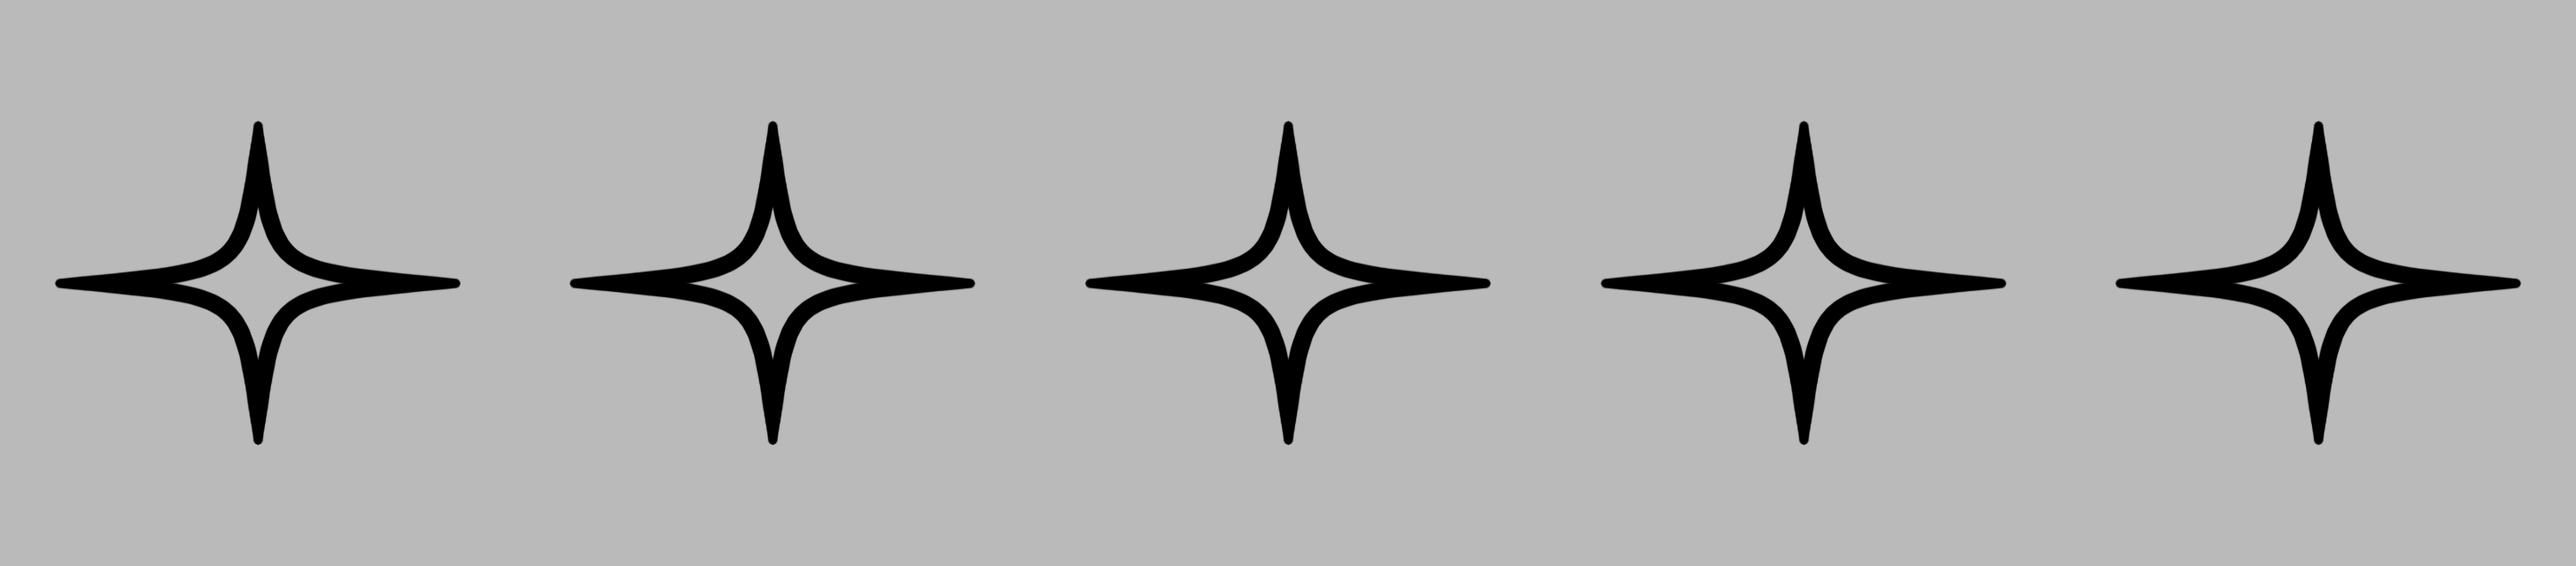
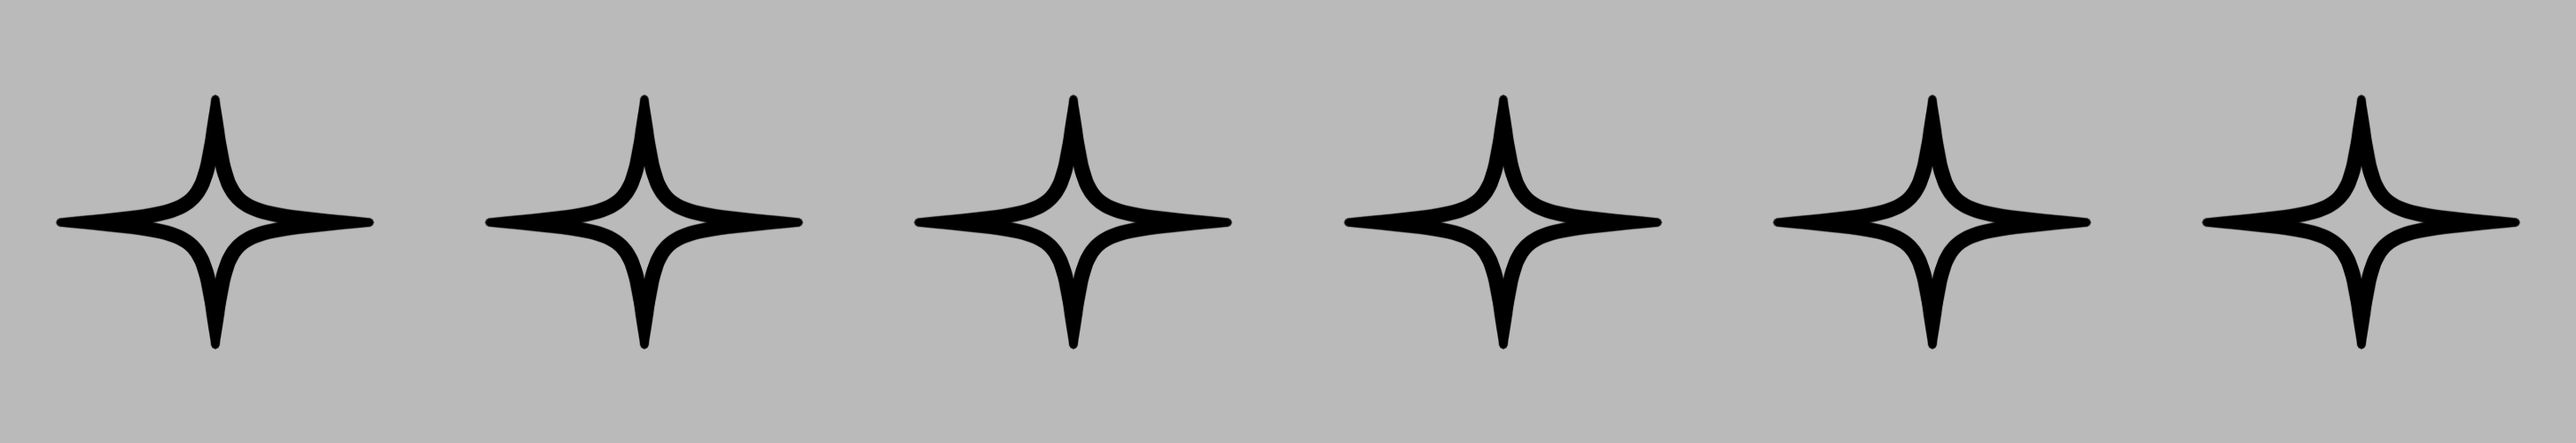
update portofolio

Changed region(s): [[0.0312, 0.2092, 0.9668, 0.7769]]

diff --git a/app/portfolio.css b/app/portfolio.css
@@ -709,7 +709,10 @@ a.chan:hover .chan__v { color: var(--ink); }
    ada untuk memberi kisi HP di bawah sesuatu untuk dipegang. */
 .about-head, .edu-list { display: contents; }
 
-.hero-cta { display: flex; flex-wrap: wrap; gap: 12px; }
+/* Sepasang tombol berdampingan. Dipakai hero ("Lihat Proyek" + "Unduh CV") dan
+   formulir kontak ("Kirim Pesan" + "Salin Email"); keduanya punya persoalan HP
+   yang sama persis, jadi satu aturan saja — lihat blok ≤640px di bawah. */
+.hero-cta, .form-cta { display: flex; flex-wrap: wrap; gap: 12px; }
 
 @media (max-width: 640px) {
   /* ── Layar 1 ── satu layar penuh, isinya ditengahkan tegak.
@@ -727,15 +730,20 @@ a.chan:hover .chan__v { color: var(--ink); }
   .band--hero .lanyard-slot { display: none; }
 
   /* Dua tombol berdampingan, sama lebar. grid, bukan flex-wrap: dengan wrap
-     "Unduh CV" turun sendiri ke baris kedua dan lebarnya jadi tidak sama. */
-  .hero-cta { display: grid; grid-template-columns: 1fr 1fr; gap: 10px; }
-  .hero-cta > * { width: 100%; }
+     "Unduh CV" turun sendiri ke baris kedua dan lebarnya jadi tidak sama.
+     Hal yang sama menimpa "Kirim Pesan" + "Salin Email" di formulir kontak —
+     pada ukuran desktopnya keduanya butuh 358px sementara .shell cuma
+     menyisakan 342px — jadi .form-cta ikut aturan yang sama. */
+  .hero-cta, .form-cta { display: grid; grid-template-columns: 1fr 1fr; gap: 10px; }
+  .hero-cta > *, .form-cta > * { width: 100%; }
   /* Kolomnya 166px dan padding 32px memakan 64px di antaranya — labelnya patah
      jadi "VIEW / PROJECTS". Dikecilkan sampai keduanya muat satu baris.
      Pasangannya ada di page.tsx: FlowButton memakai utility Tailwind (px-8,
      text-[14px]) yang selalu menang atas berkas ini, jadi ukuran HP-nya
-     dioper sebagai varian max-[640px] di sana. */
-  .hero-cta .btn { padding-inline: 14px; font-size: 12px; letter-spacing: 1px; }
+     dioper sebagai varian max-[640px] di sana. OriginButton di formulir kontak
+     tidak begitu — rupanya murni dari .btn — jadi baris ini cukup untuknya.
+     min-height 48px sengaja tidak ikut turun: itu sasaran sentuh, bukan hiasan. */
+  .hero-cta .btn, .form-cta .btn { padding-inline: 14px; font-size: 12px; letter-spacing: 1px; }
 
   /* Kalimat pembuka dikecilkan, dan cuma yang di hero — .lead juga dipakai
      paragraf About, dan di sana panjangnya bukan masalah. Di sini iya:
@@ -936,6 +944,31 @@ a.chan:hover .chan__v { color: var(--ink); }
   .pcard__cta { letter-spacing: 1px; margin-top: 5px; }
   .pcard__new { top: 10px; left: 10px; }
   .pcard__play { top: 10px; right: 10px; width: 30px; height: 30px; }
+
+  /* ── Kontak langsung ── satu baris per kanal, tidak pernah patah.
+     Di 390px ruang di dalam .shell tinggal 342px, dan ongkos tetap ukuran
+     desktopnya sudah memakan 160px sebelum nilainya mulai: ikon 20 + label 100
+     + dua gap 20. Sisa 182px, sementara email 27 huruf pada 16px butuh ~215px:
+     nilainya membungkus ke baris kedua, panah margin-left:auto ikut turun, dan
+     kolom labelnya berhenti lurus dari baris ke baris.
+
+     Yang dipangkas ongkos tetapnya lebih dulu — ikon 16, label 66 pada 10px,
+     gap 10 — jadi nilainya kebagian 216px, dan emailnya cuma ~177px pada 13px.
+     Muat dengan kelonggaran sepertiga; angka-angka lain (nomor WA, in/..., dan
+     nama GitHub) jauh lebih pendek lagi.
+
+     nowrap + ellipsis yang menjaga janji itu tetap berlaku kalau kelak ada
+     nilai yang lebih panjang dari email: terpotong rapi di ujungnya, tidak
+     pernah menumpuk. Tanpa ellipsis, nowrap saja akan meluber melewati tepi
+     layar dan menerbitkan gulir mendatar di seluruh halaman. */
+  .chan { flex-wrap: nowrap; gap: 10px; padding: 14px 0; }
+  .chan__i { width: 16px; height: 16px; }
+  .chan__k { flex: 0 0 66px; font-size: 10px; letter-spacing: .8px; }
+  .chan__v {
+    flex: 1; min-width: 0; font-size: 13px;
+    white-space: nowrap; overflow: hidden; text-overflow: ellipsis;
+  }
+  .chan__x { flex: none; font-size: 13px; }
 
   /* ── Taskbar ── pil mengambang di tepi bawah, di jangkauan jempol.
      Menggantikan hamburger: tujuannya empat-empatnya sama persis. */

diff --git a/components/lanyard.tsx b/components/lanyard.tsx
@@ -450,7 +450,7 @@ function Band({maxSpeed = 50, minSpeed = 0, isMobile = false, theme = 'dark', on
                        jangkung — 176x1150 — dan [1000,2000] memberi tali 3px di
                        sebelah kartu 84px: pita bertulisan yang tergambar
                        sebagai benang. Dengan aspek sungguhan tebal tali ikut
-                       kartunya di mana pun, 26% dari lebar kartu, di HP maupun
+                       kartunya di mana pun, 19% dari lebar kartu, di HP maupun
                        di desktop selebar apa pun. */
                     resolution={[size.width, size.height]}
                     useMap
@@ -466,17 +466,36 @@ function Band({maxSpeed = 50, minSpeed = 0, isMobile = false, theme = 'dark', on
                        Angka ini harus berubah bersamaan dengan REPEAT di
                        tools/lanyard-texture.mjs — rasio petanya diturunkan dari
                        situ. Pernah dicoba 1 salinan (tulisan sekali, di tengah
-                       tali); ditolak, kembali ke 2. */
+                       tali); ditolak, kembali ke 2.
+
+                       Jumlah salinan tidak ikut berubah saat lineWidth di bawah
+                       diturunkan ke 1,75; yang ikut adalah rasio PETAnya (kini
+                       1459x251 alias 5,8), karena pitanya menyempit sementara
+                       panjangnya tetap. */
                     repeat={[-2, 1]}
-                    /* 2,24 naik dari 1, dan seluruh kenaikannya ganti rugi
-                       resolution di atas: aspek yang jujur membuat rumus tadi
-                       memakai tinggi canvas (1228) alih-alih lebarnya (2743),
-                       dan 2743/1228 = 2,24 mengembalikan tebal tali desktop
-                       persis seperti sebelumnya — 49px pada jendela 1902 yang
-                       dipakai menyetelnya. Baru sekarang ini kenop tebal tali
-                       yang sebenarnya; sebelumnya yang menentukan tebalnya
-                       lebar canvas, dan angka ini cuma pengalinya. */
-                    lineWidth={2.24}
+                    /* Selebar pengaitnya, tidak lebih. Dengan resolution yang
+                       jujur di atas, rumus tebal tali di layar disederhanakan
+                       jadi satu baris yang tinggi canvas maupun jarak kameranya
+                       saling menghapus:
+
+                           lebar pita (satuan dunia) = lineWidth x tan(fov/2)
+
+                       Jadi angka ini SATU-SATUNYA yang menentukan lebar tali,
+                       dan lebarnya sama di HP maupun desktop tanpa cabang —
+                       kotak canvas boleh 2743x1229 atau 176x1150, kamera boleh
+                       z=29 atau z=60, hasilnya tidak bergeser sedikit pun.
+
+                       Targetnya cincin pengait di puncak kartu: nodes.clip
+                       lebarnya 0,1372 di card.glb, dikali skala group 2,25 jadi
+                       0,3087 satuan dunia. 0,3087 / tan(10°) = 1,75. Sebelumnya
+                       2,24 alias 0,395 — pitanya 28% lebih lebar dari cincin
+                       yang seharusnya menahannya, jadi terlihat menjulur keluar
+                       di kiri-kanan pengait.
+
+                       Berpasangan dengan repeat di bawah: mengubah angka ini
+                       mengubah rasio bidang pita di layar, dan tekstur harus
+                       ikut (tools/lanyard-texture.mjs) atau bintangnya melar. */
+                    lineWidth={1.75}
                 />
             </mesh>
         </>

diff --git a/app/page.tsx b/app/page.tsx
@@ -416,7 +416,7 @@ export default function Home() {
                   otomasi industri.
                 </p>
 
-                <h3 className="label text-muted mt-12">Core Competencies</h3>
+                <h3 className="label text-muted mt-12 split">Core Competencies</h3>
                 <ul className="comp-grid mt-5">
                   <li>PCB Design &amp; Layout</li>
                   <li>Control Systems Design</li>
@@ -434,7 +434,7 @@ export default function Home() {
               </div>
 
  <div>
-                <h3 className="label text-muted">Education</h3>
+                <h3 className="label text-muted split">Education</h3>
 
                 {/* Pembungkus dua kolom KHUSUS HP, sama polanya dengan
                     .about-head: `display: contents` di layar lebar, jadi kedua
@@ -535,7 +535,7 @@ export default function Home() {
                   patah begitu blok keenam ditambahkan. */}
               <div className="skills-col">
                 <div className="max-[640px]:order-1">
-                  <h3 className="label text-muted" data-en="Focus Areas">
+                  <h3 className="label text-muted split" data-en="Focus Areas">
                     Fokus Keahlian
                   </h3>
                   {/* divide-y/border-y dimatikan di HP: di sana daftar ini jadi
@@ -578,7 +578,7 @@ export default function Home() {
                 </div>
 
                 <div className="mt-10 max-[640px]:order-4 max-[640px]:mt-0">
-                  <h3 className="label text-muted">Hard Skills</h3>
+                  <h3 className="label text-muted split">Hard Skills</h3>
                   <div className="mt-5 flex flex-wrap gap-2">
                     <span className="chip">PCB Design</span>
                     <span className="chip">Electronic Hardware Design</span>
@@ -604,7 +604,7 @@ export default function Home() {
 
               <div className="skills-col">
                 <div className="max-[640px]:order-2">
-                  <h3 className="label text-muted">Software &amp; Tools</h3>
+                  <h3 className="label text-muted split">Software &amp; Tools</h3>
                   <div className="mt-5 flex flex-wrap gap-2">
                     {TOOLS.map(({ name, href, logo }) => (
                       <a
@@ -801,7 +801,7 @@ export default function Home() {
                 id="contact-form"
                 noValidate
               >
-                <h3 className="label text-muted" data-en="Send a Message">
+                <h3 className="label text-muted split" data-en="Send a Message">
                   Kirim Pesan
                 </h3>
 
@@ -868,7 +868,7 @@ export default function Home() {
                   <em className="field__err" />
                 </label>
 
-                <div className="mt-6 flex flex-wrap items-center gap-3">
+                <div className="form-cta mt-6">
                   <OriginButton
                     type="submit"
                     className="btn btn--solid glass"
@@ -910,7 +910,7 @@ export default function Home() {
 
  <div>
                 <h3
-                  className="label text-muted"
+                  className="label text-muted split"
                   data-en="Information &amp; Direct Contact"
                 >
                   Informasi &amp; Kontak Langsung
